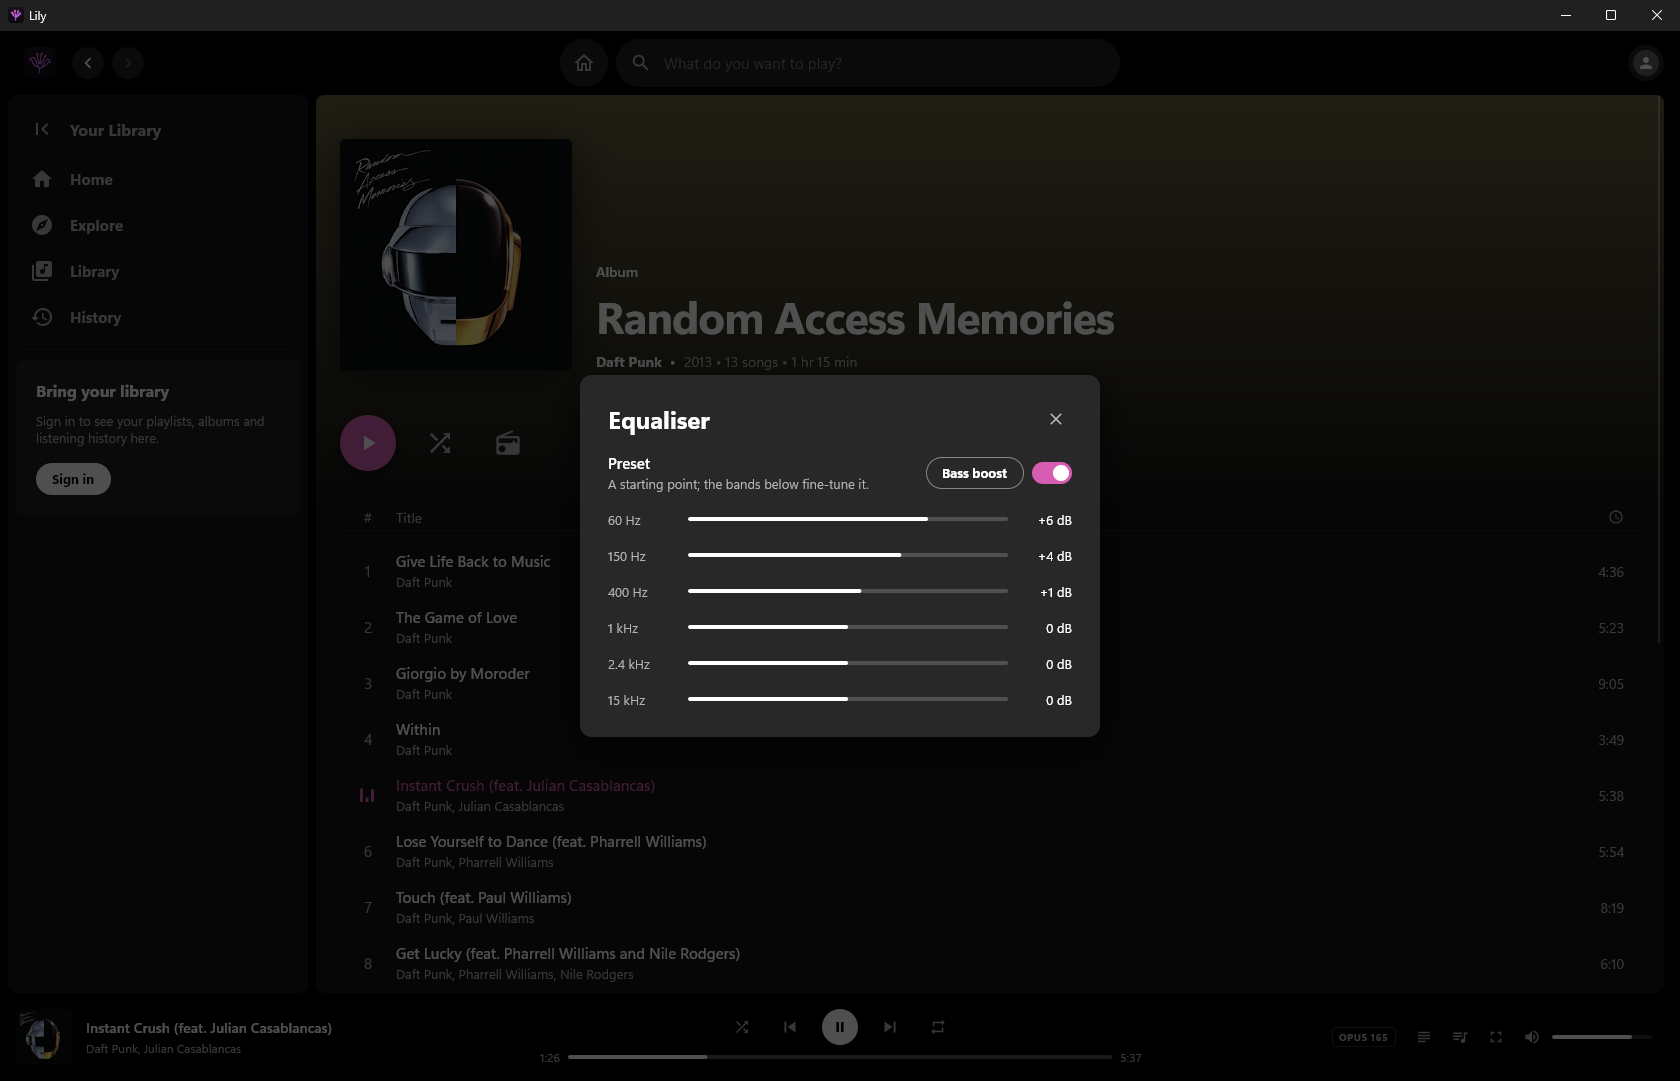
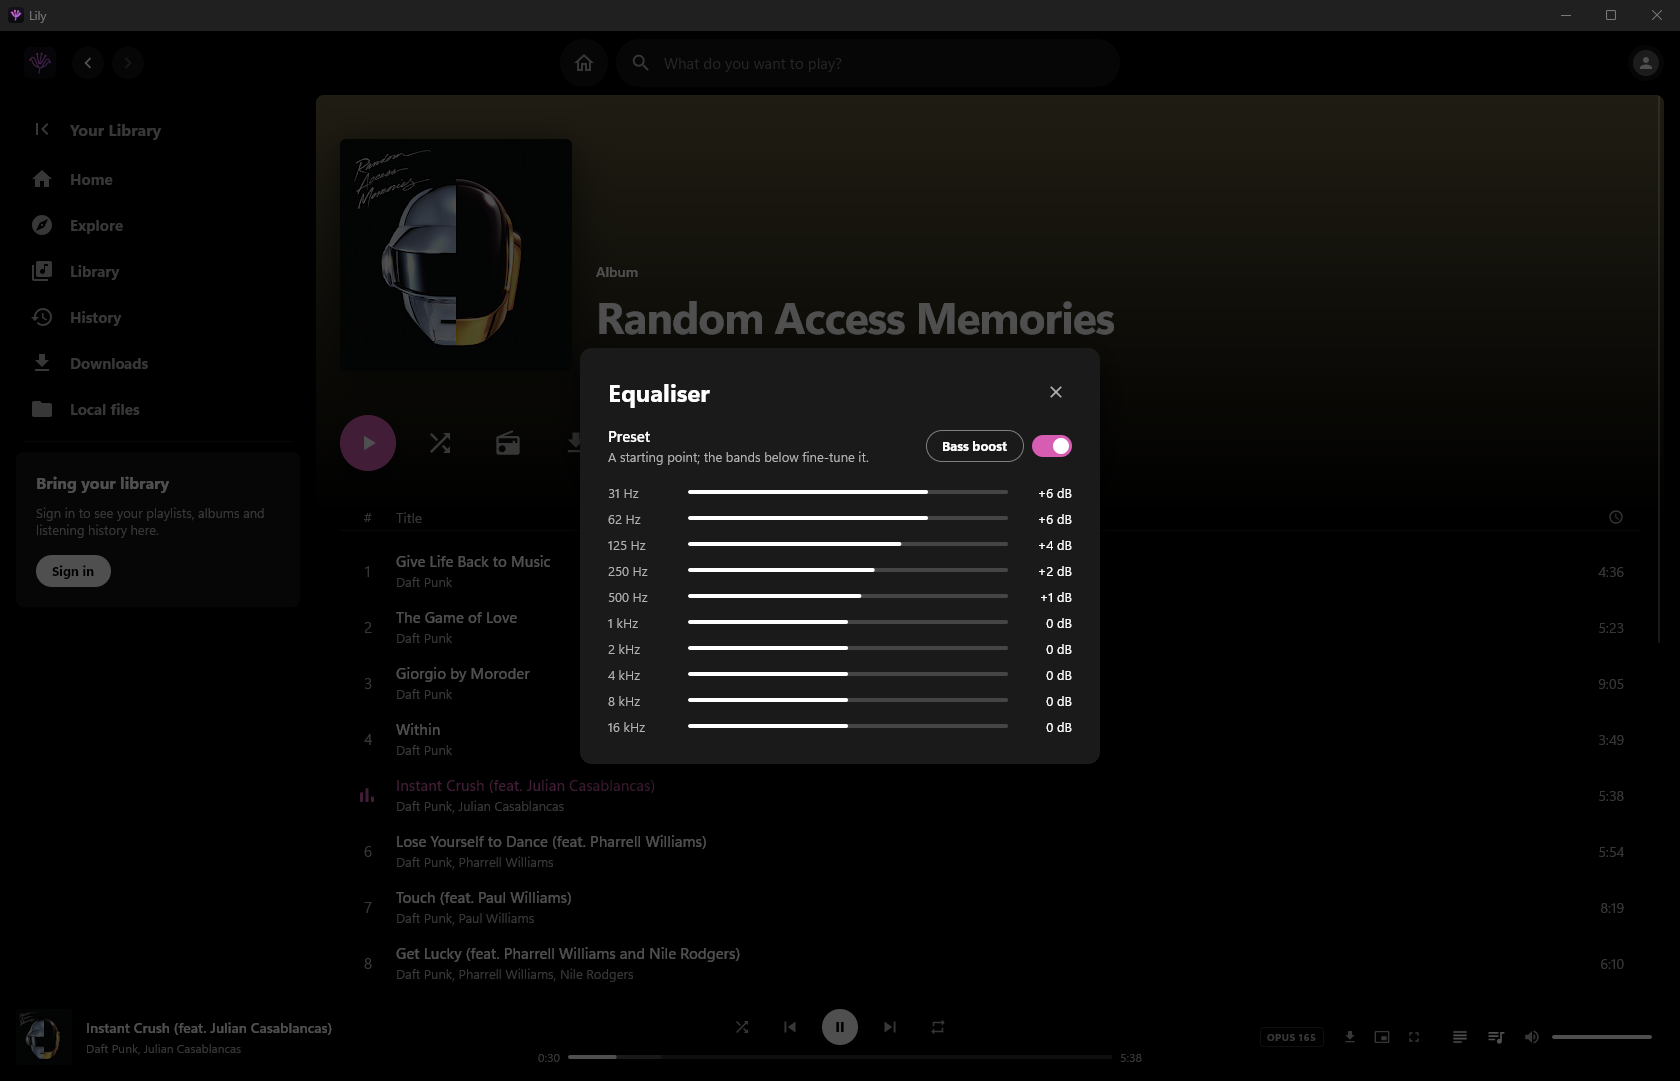
docs: Bring the README's crossfade, equaliser, unplug and Copy link lines up to date
The equaliser screenshot shows the ten bands.

diff --git a/README.md b/README.md
@@ -122,10 +122,10 @@ Lily starts in pure black with its own orchid. Pick another look and accent in *
 | --- | --- |
 | **Premium streams** | Signed in with Premium on High, songs play in YouTube's 256 kbps formats, and the player bar says so. Music videos swap to their song versions to get them. |
 | **Gapless** | The next song is lined up 15 seconds early and follows without a gap, and the screen changes the moment the sound does. |
-| **Crossfade** | Fades each song into the next over 6 seconds, cutting the silence at the joins. An album played in order still runs straight on, and skipping never fades. |
-| **Equaliser** | Six bands from 60 Hz to 15 kHz, ±12 dB each, with presets: Flat, Bass boost, Treble boost, Vocal, Rock, Electronic and Acoustic. Boosting turns the rest down to leave headroom. |
+| **Crossfade** | Fades each song into the next over 1 to 12 seconds (6 by default), cutting the silence at the joins. An album played in order still runs straight on, and skipping never fades. |
+| **Equaliser** | Ten bands from 31 Hz to 16 kHz, ±12 dB each, with presets: Flat, Bass boost, Treble boost, Vocal, Rock, Electronic and Acoustic. Boosting turns the rest down to leave headroom. |
 | **Normalise volume** | Plays every track at a similar loudness, from YouTube's own measurement: loud ones turned down and quiet ones up, at Normal or a Quiet level 6 dB lower, with a limiter so nothing clips. |
-| **No clicks, no drop-outs** | Pausing ramps the sound down, and seeks and skips fade in. Unplug your headphones and the music carries on through the next device. |
+| **No clicks, no drop-outs** | Pausing ramps the sound down, and seeks and skips fade in. Unplug your headphones and the music pauses, or with **Pause when unplugged** off, carries on through the next device. |
 
 ## Light enough to forget about
 
@@ -196,7 +196,7 @@ Right-click a song to play it next, add it to the queue, start a radio, like it,
 
 Choose **Sign in** in the sidebar (or in **Settings ▸ Account**), then **Sign in with Google**, and sign in on Google's own page. The window closes by itself once you're in. Your playlists and Liked music appear in the sidebar, where a right-click pins one to the top, your albums and artists in Library, Home becomes your own feed, and what you play here counts towards your YouTube Music history and recommendations.
 
-Your own playlists can be edited from their page: drag songs into a new order, remove them, or rename, share or delete the playlist from the header's menu (making one public or unlisted needs a YouTube channel on the account). Any other album or playlist can be saved to your library from its header, and artists subscribed to. Every song, album, playlist and artist has **Copy link** in its menu.
+Your own playlists can be edited from their page: drag songs into a new order, remove them, or rename, share or delete the playlist from the header's menu (making one public or unlisted needs a YouTube channel on the account). Any other album or playlist can be saved to your library from its header, and artists subscribed to. **Copy link** is in the menus of songs, the queue, cards, page headers, the player bar and the sidebar's playlists.
 
 The sign-in is stored encrypted for your Windows account only, with DPAPI. Signing in uses Microsoft Edge WebView2, which comes with Windows 11 and most Windows 10 PCs.
 
